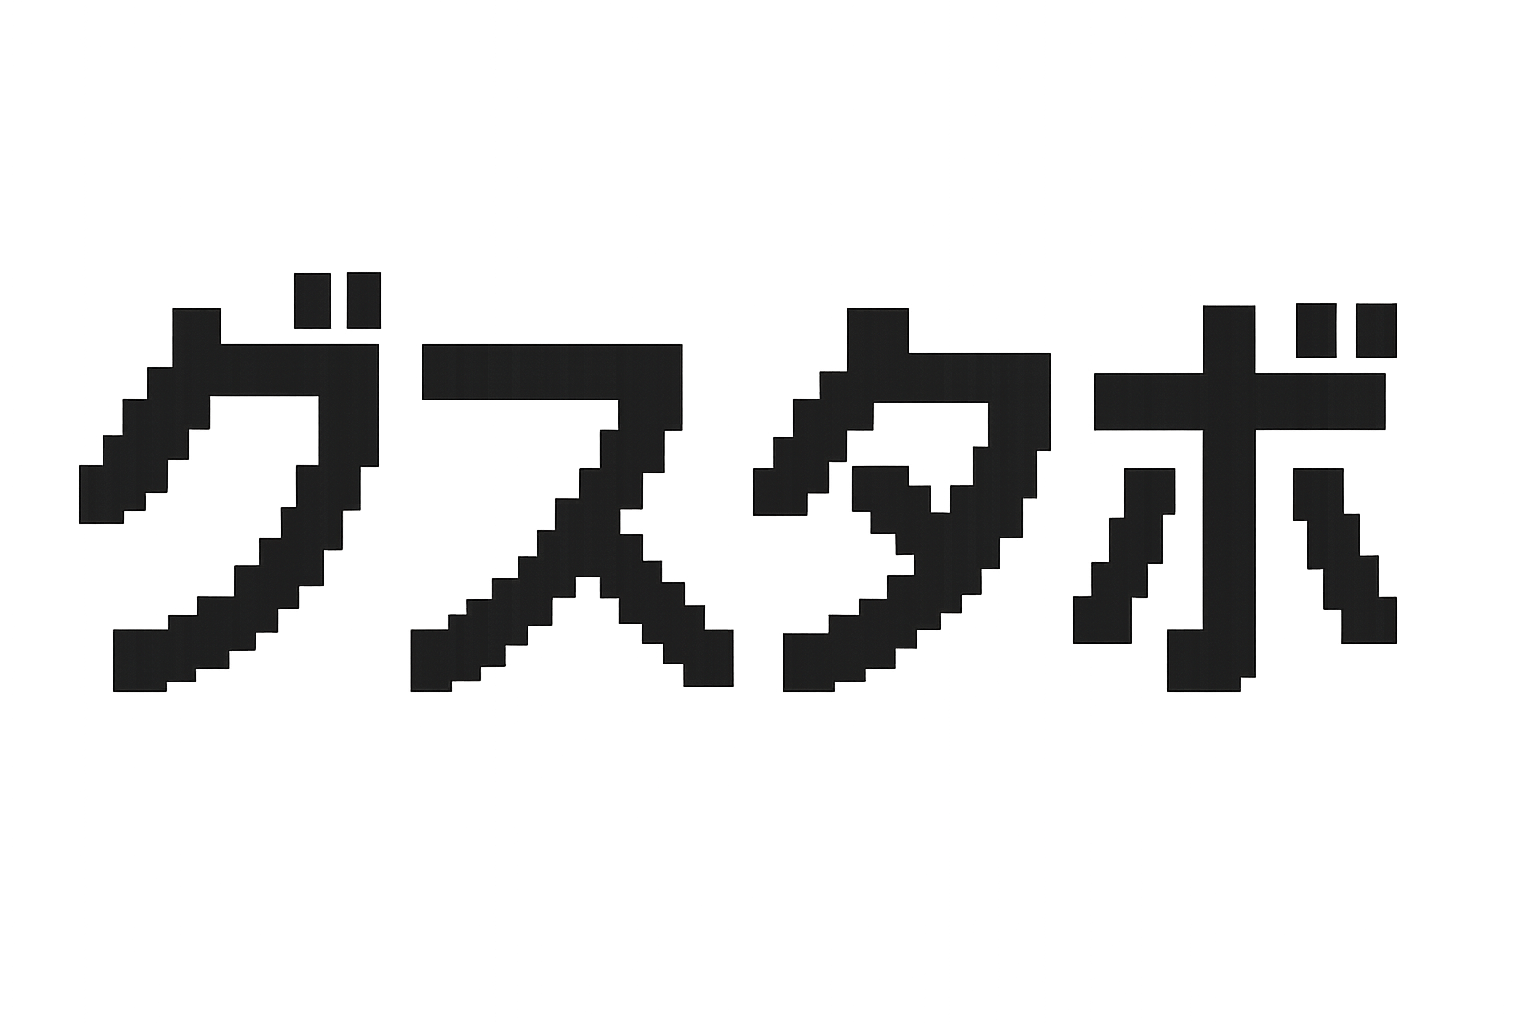
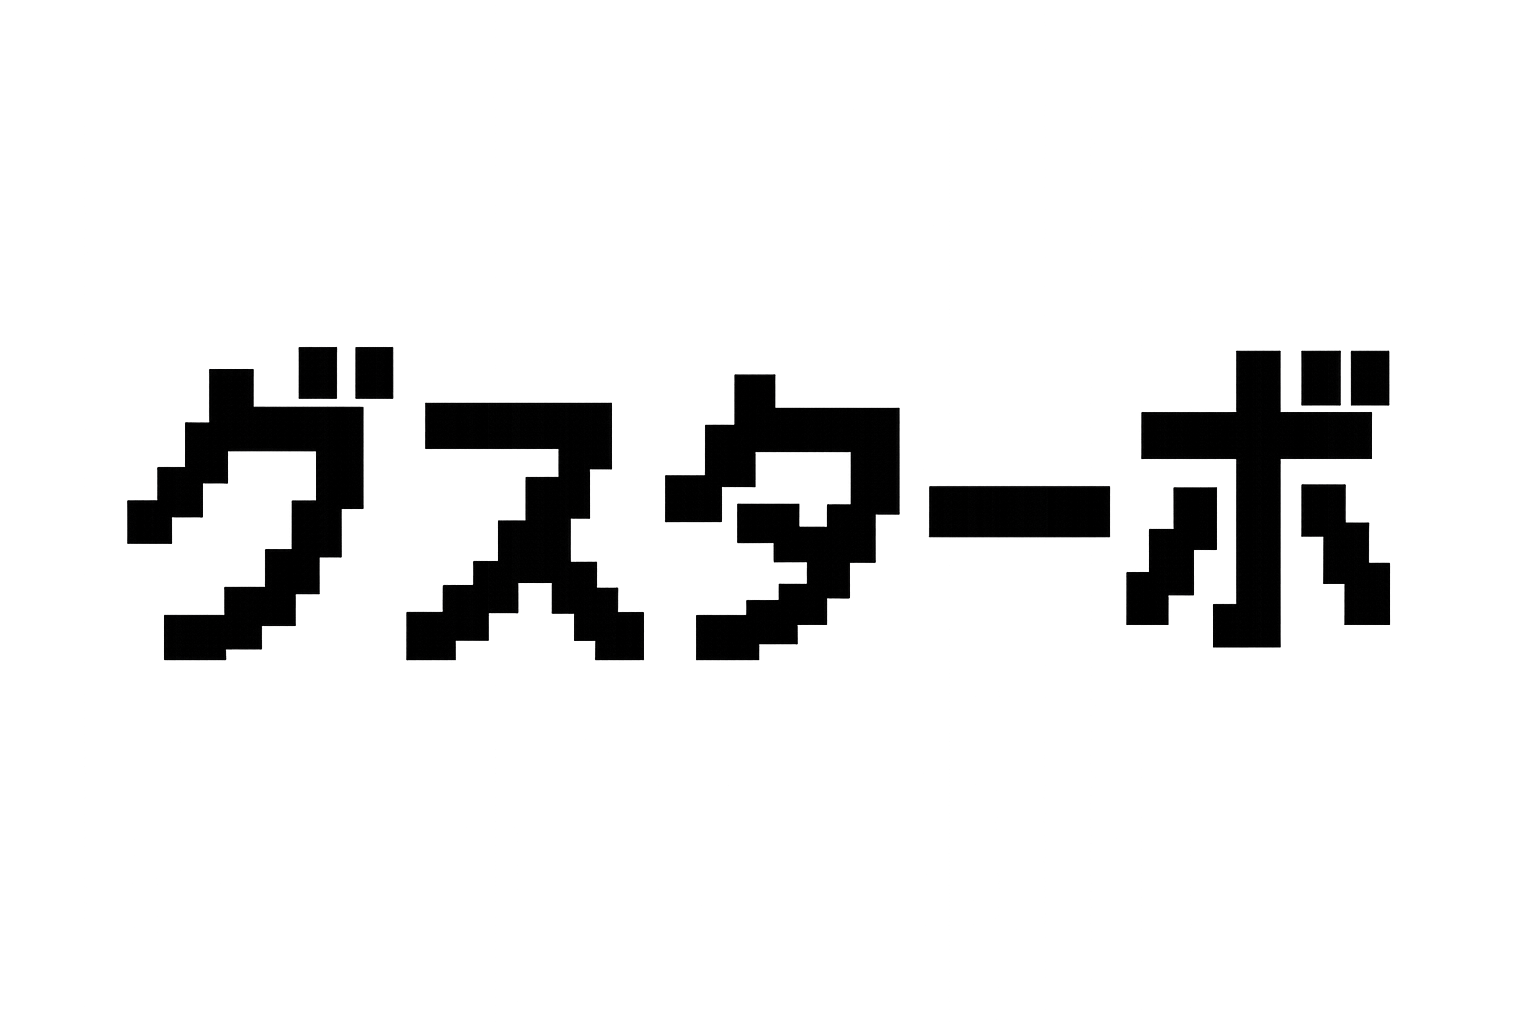
feat: new navigation and profile picture

Changed region(s): [[0.0312, 0.25, 0.9375, 0.6875]]

diff --git a/style.css b/style.css
@@ -31,6 +31,7 @@ nav {
     display: flex;
     justify-content: center;
     gap: 40px;
+    align-items: center;
 }
 
 nav a {
@@ -44,6 +45,31 @@ nav a {
 nav a:hover,
 nav a.active {
     color: #000000;
+}
+
+/* Favicon icon styling */
+.nav-icon {
+    display: inline-flex;
+    align-items: center;
+    justify-content: center;
+}
+
+.nav-icon img {
+    width: 20px;
+    height: 20px;
+    transition: all 0.2s ease;
+}
+
+.nav-icon:hover img {
+    filter: brightness(0) saturate(100%) invert(77%) sepia(86%) saturate(2476%) hue-rotate(3deg) brightness(101%) contrast(107%);
+}
+
+.nav-icon.active img {
+    opacity: 1;
+}
+
+.nav-icon:not(.active) img {
+    opacity: 0.6;
 }
 
 /* Page Sections */
@@ -362,6 +388,11 @@ footer {
 
     .bio p {
         font-size: 14px;
+    }
+
+    .nav-icon img {
+        width: 18px;
+        height: 18px;
     }
 }
 

diff --git a/contacts.html b/contacts.html
@@ -15,11 +15,13 @@
     <div class="container">
         <header>
             <nav>
-                <a href="index.html" class="nav-link">about</a>
+                <a href="index.html" class="nav-link nav-icon active">
+                    <img src="favicon.png" alt="About" title="グスターボ">
+                </a>
                 <a href="blog.html" class="nav-link">blog</a>
                 <a href="projects.html" class="nav-link">projects</a>
                 <a href="gear.html" class="nav-link">gear</a>
-                <a href="contacts.html" class="nav-link active">contact</a>
+                <a href="contacts.html" class="nav-link">contact</a>
             </nav>
         </header>
 

diff --git a/projects.html b/projects.html
@@ -14,9 +14,11 @@
     <div class="container">
         <header>
             <nav>
-                <a href="index.html" class="nav-link">about</a>
+                <a href="index.html" class="nav-link nav-icon active">
+                    <img src="favicon.png" alt="About" title="グスターボ">
+                </a>
                 <a href="blog.html" class="nav-link">blog</a>
-                <a href="projects.html" class="nav-link active">projects</a>
+                <a href="projects.html" class="nav-link">projects</a>
                 <a href="gear.html" class="nav-link">gear</a>
                 <a href="contacts.html" class="nav-link">contact</a>
             </nav>

diff --git a/gear.html b/gear.html
@@ -15,10 +15,12 @@
 
         <header>
             <nav>
-                <a href="index.html" class="nav-link">about</a>
+                <a href="index.html" class="nav-link nav-icon active">
+                    <img src="favicon.png" alt="About" title="グスターボ">
+                </a>
                 <a href="blog.html" class="nav-link">blog</a>
                 <a href="projects.html" class="nav-link">projects</a>
-                <a href="gear.html" class="nav-link active">gear</a>
+                <a href="gear.html" class="nav-link">gear</a>
                 <a href="contacts.html" class="nav-link">contact</a>
             </nav>
         </header>

diff --git a/blog.html b/blog.html
@@ -15,8 +15,10 @@
 
         <header>
             <nav>
-                <a href="index.html" class="nav-link">about</a>
-                <a href="blog.html" class="nav-link active">blog</a>
+                <a href="index.html" class="nav-link nav-icon active">
+                    <img src="favicon.png" alt="About" title="グスターボ">
+                </a>
+                <a href="blog.html" class="nav-link">blog</a>
                 <a href="projects.html" class="nav-link">projects</a>
                 <a href="gear.html" class="nav-link">gear</a>
                 <a href="contacts.html" class="nav-link">contact</a>

diff --git a/index.html b/index.html
@@ -14,7 +14,9 @@
     <div class="container">
         <header>
             <nav>
-                <a href="index.html" class="nav-link active">about</a>
+                <a href="index.html" class="nav-link nav-icon active">
+                    <img src="favicon.png" alt="About" title="グスターボ">
+                </a>
                 <a href="blog.html" class="nav-link">blog</a>
                 <a href="projects.html" class="nav-link">projects</a>
                 <a href="gear.html" class="nav-link">gear</a>
